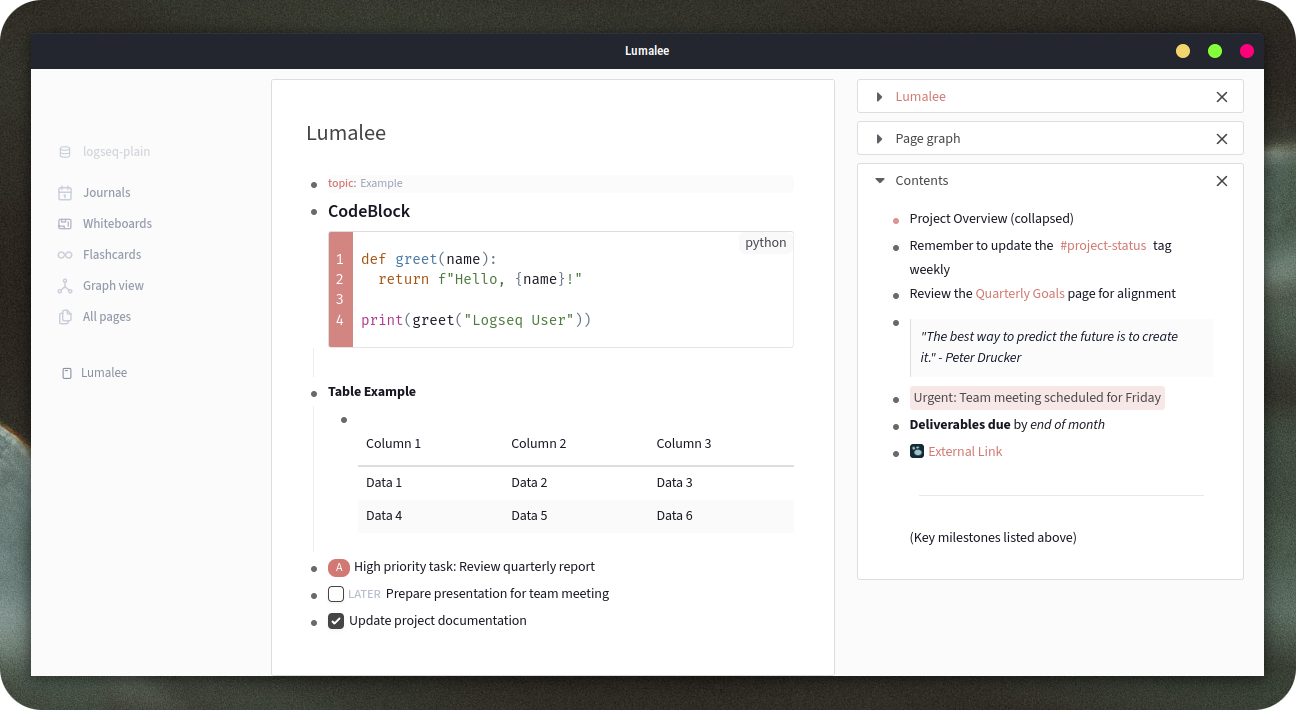
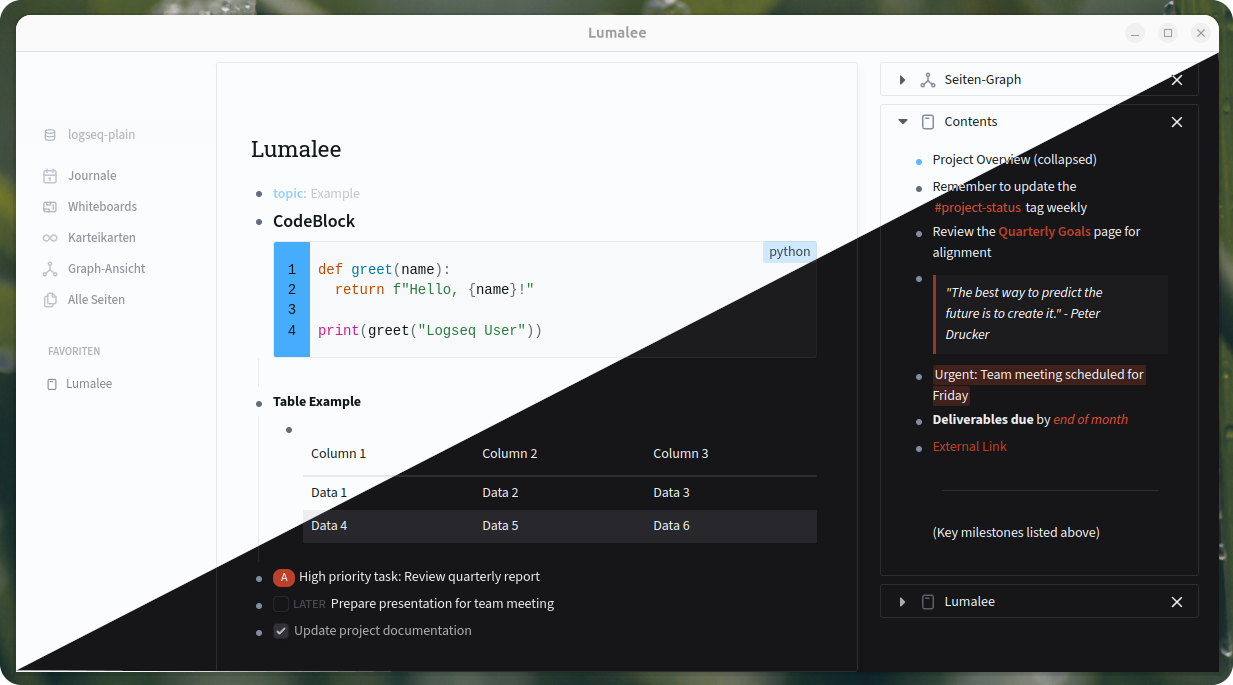
more accent color fixes, screenshot updated

diff --git a/custom.css b/custom.css
@@ -1001,6 +1001,11 @@ nav[aria-label="Navigation menu"] {
   color: var(--text-faint);
 }
 
+
+html[data-color=none] #ui__ac-inner .menu-link.chosen, #ui__ac-inner .menu-link:hover {
+  background-color: var(--text-primary) !important;
+}
+
 #ui__ac-inner .menu-link.chosen,
 #ui__ac-inner .menu-link:hover {
   background-color: hsl(var(--primary)/.2) !important;
@@ -1017,6 +1022,10 @@ nav[aria-label="Navigation menu"] {
 
 .ui__ac-inner>a.chosen div {
   background-color: hsl(var(--primary)) !important;
+}
+
+html[data-color=none] #ui__ac-inner .menu-link.chosen {
+  color: var(--bg1) !important;
 }
 
 .absolute.rounded-md.shadow-lg.absolute-modal {
@@ -1136,6 +1145,7 @@ mark {
   color: var(--ls-primary-text-color) !important;
   opacity: 1;
   background-color: hsl(var(--primary)/.2) !important;
+  padding: 0px 2px;
 }
 
 
@@ -1870,50 +1880,69 @@ span.inline.with-bg-color {
 
 /* fix dark Logseq and light no-accent color */
 
-/* Dark theme fixes */
+/* === DARK THEME FIXES === */
 html[data-theme=dark][data-color=logseq] .references-blocks-item {
   background-color: transparent;
 }
 
-.form-input[data-theme=dark][data-color=logseq] {
+html[data-theme=dark][data-color=logseq] .form-input {
   background-color: hsl(var(--background));
 }
 
-/* Base transparent backgrounds */
-.menu-links-outer, .menu-links-wrapper {
+/* === MENU BACKGROUNDS === */
+.menu-links-outer,
+.menu-links-wrapper {
   background-color: transparent;
 }
 
-html:not([data-color=logseq]) .absolute-modal[data-modal-name], 
-html:not([data-color=logseq]) .menu-links-outer, 
+/* Override for non-logseq themes */
+html:not([data-color=logseq]) .absolute-modal[data-modal-name],
+html:not([data-color=logseq]) .menu-links-outer,
 html:not([data-color=logseq]) div[data-radix-popper-content-wrapper] div[role=menu] {
   background-color: transparent;
 }
 
-/* Settings menu items */
+/* Specific background fixes for menu elements */
+div[data-radix-popper-content-wrapper] div[role=menu],
+.menu-links-wrapper,
+.absolute-modal[data-modal-name] {
+  background-color: var(--ls-primary-background-color) !important;
+}
+
+/* Special override for color schemes */
+html[data-color]:not([data-color="none"]) .menu-links-wrapper {
+  background-color: var(--ls-primary-background-color);
+}
+
+/* === SETTINGS MENU === */
+/* Hover states */
 html[data-theme=light] .settings-menu-item:hover a {
   background-color: var(--text-primary) !important;
 }
+
 html[data-color]:not([data-color="none"]) .settings-menu-item:hover a {
   background-color: hsl(var(--primary)/.9) !important;
 }
 
+/* Active states */
 html[data-theme=light] .cp__settings-inner>aside ul>li.active a {
   background-color: var(--text-primary) !important;
 }
+
 html[data-color]:not([data-color="none"]) .cp__settings-inner>aside ul>li.active a {
   background-color: hsl(var(--primary)/.9) !important;
 }
 
-/* Background utilities */
+/* === BACKGROUND UTILITIES === */
 html[data-theme=light] .bg-primary\/90 {
   background-color: var(--text-primary) !important;
 }
+
 html[data-color]:not([data-color="none"]) .bg-primary\/90 {
   background-color: hsl(var(--primary)/.9) !important;
 }
 
-/* Toggle switches */
+/* === TOGGLE SWITCHES === */
 html[data-theme=light] .ui__toggle-background-off,
 html[data-theme=light] .ui__toggle-background-on {
   background-color: var(--text-primary) !important;
@@ -1924,7 +1953,18 @@ html[data-color]:not([data-color="none"]) .ui__toggle-background-on {
   background-color: hsl(var(--primary)) !important;
 }
 
-/* Special case for none color */
+/* Special case for 'none' color scheme */
 html[data-color=none] .ui__toggle-background-off .switcher {
-  background-color: var(--lx-gray-03,var(--ls-tertiary-background-color,var(--rx-gray-03)));
+  background-color: var(--lx-gray-03, var(--ls-tertiary-background-color, var(--rx-gray-03)));
+}
+
+/* === CONTENT HIGHLIGHTING === */
+html[data-theme=light] .block-highlight,
+html[data-theme=light] .content .selected {
+  background-color: lightgray !important;
+}
+
+/* === BULLET STYLING === */
+html[data-color="none"] .bullet-container:not(.typed-list).bullet-closed span.bullet {
+  background-color: black !important;
 }
